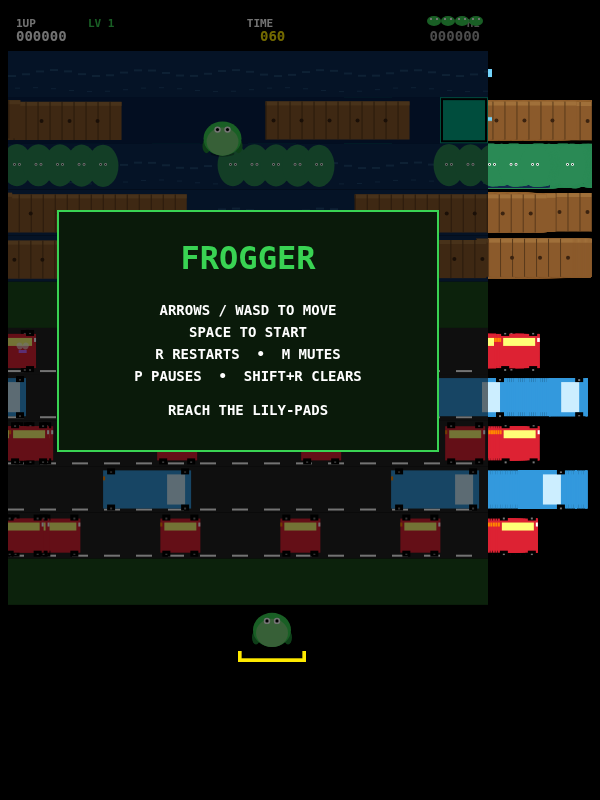
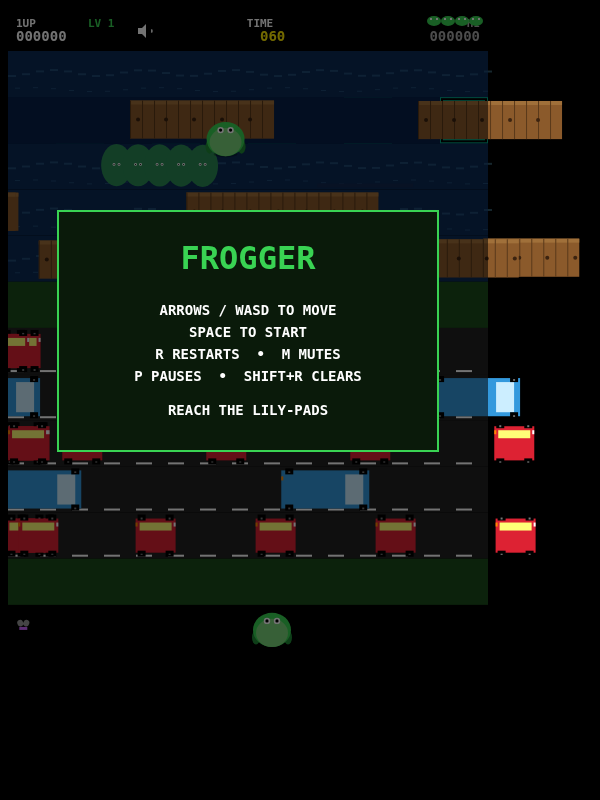
iter19: speaker on/off indicator in HUD

diff --git a/game.js b/game.js
@@ -927,6 +927,32 @@
       for (let i = 0; i < State.lives - 1; i++) {
         this.drawMiniFrog(W - 12 - i * 14, 10);
       }
+      // Sound indicator: small speaker glyph + slash when muted.
+      const sx = 130, sy = HUD_H / 2;
+      ctx.fillStyle = Sfx.enabled ? '#fff' : '#888';
+      ctx.beginPath();
+      ctx.moveTo(sx, sy - 3);
+      ctx.lineTo(sx + 4, sy - 3);
+      ctx.lineTo(sx + 8, sy - 7);
+      ctx.lineTo(sx + 8, sy + 7);
+      ctx.lineTo(sx + 4, sy + 3);
+      ctx.lineTo(sx, sy + 3);
+      ctx.closePath();
+      ctx.fill();
+      if (Sfx.enabled) {
+        ctx.beginPath();
+        ctx.arc(sx + 11, sy, 3, -0.6, 0.6);
+        ctx.strokeStyle = '#fff';
+        ctx.lineWidth = 1.5;
+        ctx.stroke();
+      } else {
+        ctx.strokeStyle = '#ff3a3a';
+        ctx.lineWidth = 2;
+        ctx.beginPath();
+        ctx.moveTo(sx - 2, sy - 6);
+        ctx.lineTo(sx + 12, sy + 6);
+        ctx.stroke();
+      }
     },
     drawMiniFrog(cx, cy) {
       const ctx = this.ctx;

diff --git a/DEVLOG.md b/DEVLOG.md
@@ -537,3 +537,18 @@ accounted for the 1.5 s gate).
 - Listening to `window.resize` only — some mobile browsers fire
   `orientationchange` and not `resize` (and vice versa), so all three
   (resize, orientationchange, visualViewport.resize) are bound.
+
+## Iteration 19 — 2026-07-26 — Sound on/off HUD indicator
+
+**What:** Drew a small speaker glyph in the HUD that turns into a
+muted speaker with a red slash when sound is off. Updates instantly
+when the player presses M.
+
+**Why:** Audio toggle existed since v1 but was invisible. Players
+who pressed M by accident had no feedback.
+
+**Measured:** Smoke test still passes.
+
+**Rejected:**
+- Bigger speaker icon — would crowd the existing HUD columns.
+- Volume slider — would need a real settings menu.
